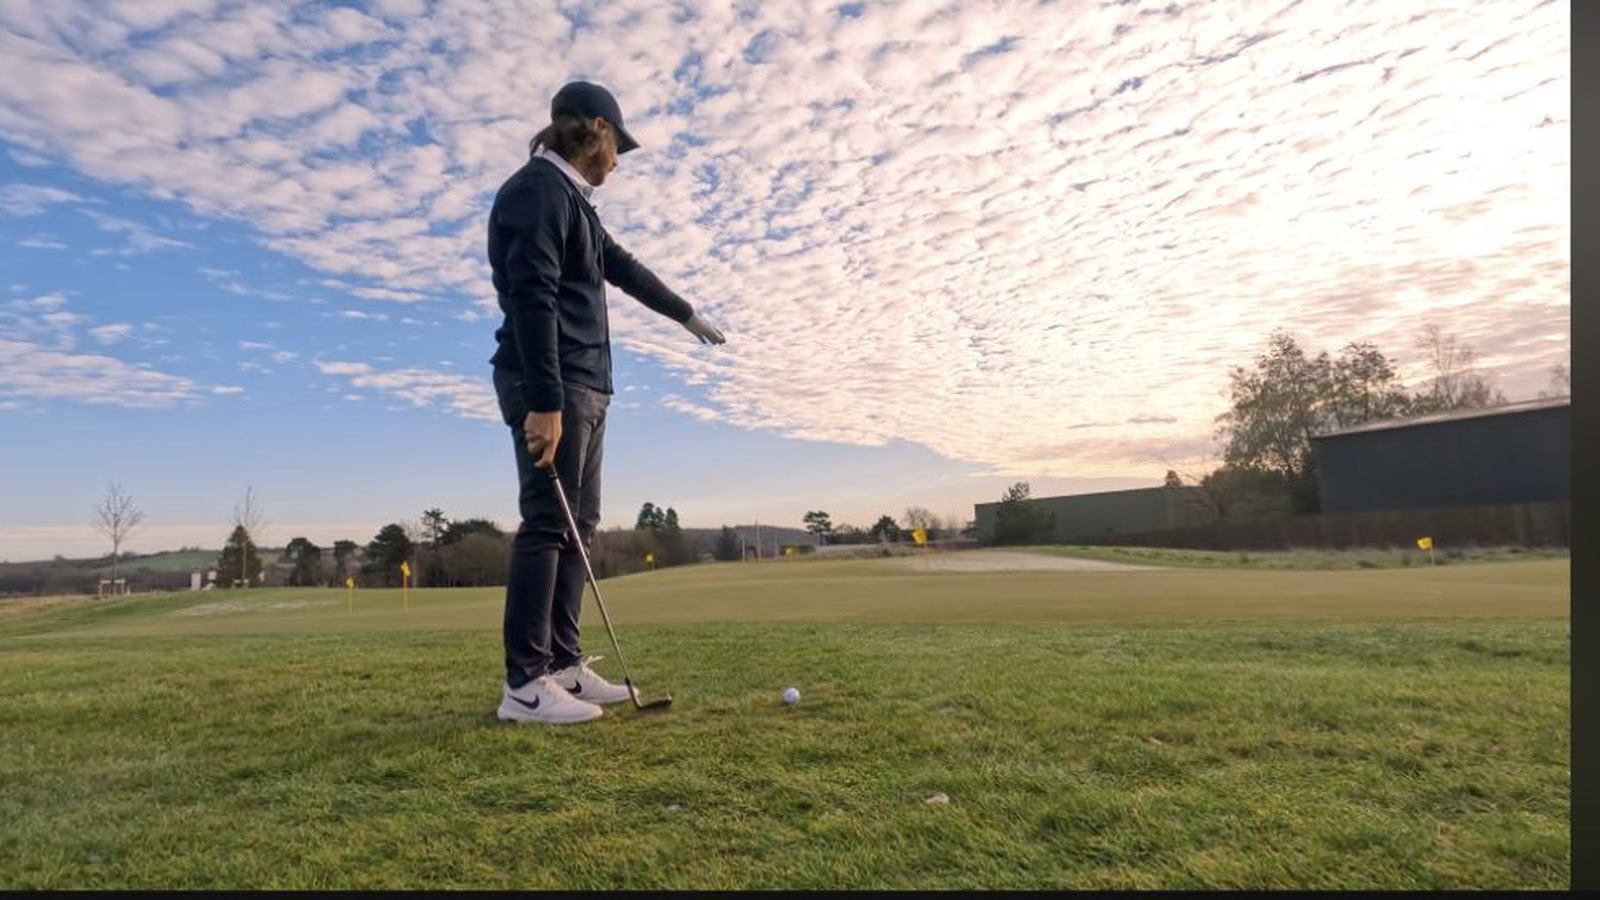
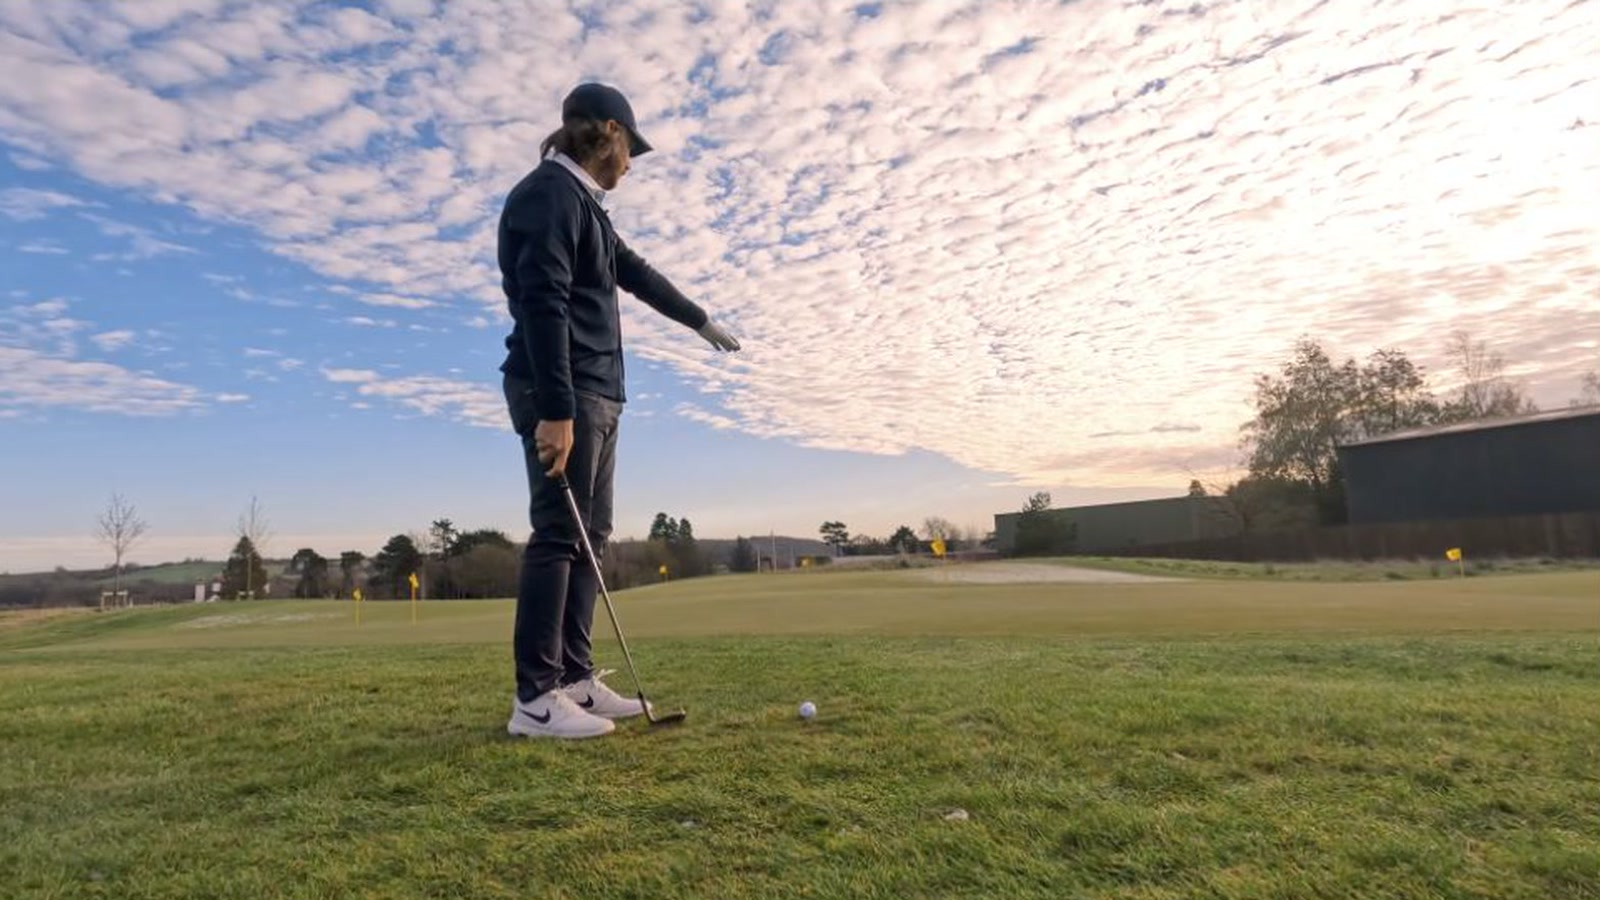
Crop black borders from Tommy Fleetwood captures

diff --git a/reading/2026-11-13-tommy-fleetwood-five-tour-pro-tips-en.html b/reading/2026-11-13-tommy-fleetwood-five-tour-pro-tips-en.html
@@ -49,7 +49,7 @@
           <div class="meta"><span>9:16 video</span><span>Rick Shiels Golf · Tommy Fleetwood</span><span>Published December 23, 2021</span><span>Summary run: November 13, 2026 · 09:30 ICT</span></div>
         </div>
         <figure class="hero-card">
-          <img src="images/2026-11-13-tommy-fleetwood-five-tour-tips/chip-shot-description.jpg?v=20261113-clean" alt="Tommy Fleetwood identifying where a chip should land before playing the shot" />
+          <img src="images/2026-11-13-tommy-fleetwood-five-tour-tips/chip-shot-description.jpg?v=20261113-crop" alt="Tommy Fleetwood identifying where a chip should land before playing the shot" />
           <figcaption>Fleetwood starts the chip by choosing its landing point and expected break. The swing becomes the last step in a plan he can describe before he moves the club.</figcaption>
         </figure>
       </header>
@@ -95,7 +95,7 @@
             <p>Fleetwood starts with the physical difference between driver and the rest of the bag. The ball is teed up, so the player can meet it while the clubhead is travelling upward. Many amateurs keep the same downward intention they use for an iron. In Fleetwood's explanation, that delivery adds spin and often produces a weak cut.</p>
             <p>His setup cue is simple. Move the ball forward, let the trail foot sit a little farther back, and keep the head behind the ball. He then places a second tee in the ground ahead of the ball. The task is to strike the ball and let the driver travel above the forward tee. A player who chops steeply downward is more likely to hit it.</p>
             <figure class="visual">
-              <img src="images/2026-11-13-tommy-fleetwood-five-tour-tips/driver-forward-tee-drill.jpg?v=20261113-clean" alt="Fleetwood demonstrating the driver setup with his head behind the teed ball" />
+              <img src="images/2026-11-13-tommy-fleetwood-five-tour-tips/driver-forward-tee-drill.jpg?v=20261113-crop" alt="Fleetwood demonstrating the driver setup with his head behind the teed ball" />
               <figcaption><a href="https://www.youtube.com/watch?v=conDZKAqpA4&t=95s">1:35</a> · Fleetwood sets his head behind the ball before showing the forward-tee constraint. The cue is visible and testable, which makes it easier to repeat than a long list of body positions.</figcaption>
             </figure>
             <p>The drill is useful because it changes the task rather than asking the player to manufacture a launch-monitor number. It still needs feedback. A very upward strike can create a new problem if contact moves low on the face or the path and face no longer match. Spray the face, watch the start line, and compare carry and curvature before keeping the change.</p>
@@ -107,7 +107,7 @@
             <p>The iron lesson reverses the driver intention. Fleetwood wants the club to reach the ball before the turf. The loft already supplies height. Trying to help the ball upward often leaves pressure on the trail foot and moves the bottom of the swing behind the ball, producing fat and thin contact.</p>
             <p>Fleetwood exaggerates the correction. He lifts the lead foot during the backswing, then stamps it down as the downswing begins. The motion shifts pressure toward the target and gives the body somewhere to rotate. He can then strike down through the ball and take the divot after impact.</p>
             <figure class="visual">
-              <img src="images/2026-11-13-tommy-fleetwood-five-tour-tips/iron-pressure-step.jpg?v=20261113-clean" alt="Fleetwood stepping pressure onto his lead foot during the iron drill" />
+              <img src="images/2026-11-13-tommy-fleetwood-five-tour-tips/iron-pressure-step.jpg?v=20261113-crop" alt="Fleetwood stepping pressure onto his lead foot during the iron drill" />
               <figcaption><a href="https://www.youtube.com/watch?v=conDZKAqpA4&t=220s">3:40</a> · The step is an exaggeration, not a pose to freeze at impact. It gives the player a clear sequence: load, plant, then move through the shot.</figcaption>
             </figure>
             <p>Contact tells you whether the exercise worked. Mark the ball position on a grass range or use a line on a mat. The strike should occur at the ball and the low point should appear beyond it. If the player simply lunges toward the target, the drill has lost its purpose. Pressure should move forward while the chest continues turning.</p>
@@ -119,7 +119,7 @@
             <p>Fleetwood's chipping advice begins away from the ball. He reads the slope, checks the lie, chooses a club, identifies a landing point, and predicts the release. In the filmed example he uses a 52-degree wedge, lands the ball just onto the green, and expects it to move from right to left.</p>
             <p>He describes the motion as a putt with loft. The phrase connects an unfamiliar little wedge shot to a familiar putting action. More importantly, it gives the shot one positive picture. The alternative is a pile of warnings about what must not happen, which leaves the player with no useful target.</p>
             <figure class="visual">
-              <img src="images/2026-11-13-tommy-fleetwood-five-tour-tips/chip-shot-description.jpg?v=20261113-clean" alt="Fleetwood pointing to the landing point for a low chip with a 52 degree wedge" />
+              <img src="images/2026-11-13-tommy-fleetwood-five-tour-tips/chip-shot-description.jpg?v=20261113-crop" alt="Fleetwood pointing to the landing point for a low chip with a 52 degree wedge" />
               <figcaption><a href="https://www.youtube.com/watch?v=conDZKAqpA4&t=275s">4:35</a> · The landing point links club choice to green speed and slope. A successful chip can then be reviewed as a plan, not only as a final distance from the hole.</figcaption>
             </figure>
             <ol class="sequence">
@@ -137,7 +137,7 @@
             <p>Tour players know more than a single stock distance. They can shorten a swing, reduce speed, or choose another flight. Fleetwood asks amateurs to start with something even more basic: measure what the club actually does across several shots.</p>
             <p>A player may call an 8-iron a 164-yard club because one perfect strike once travelled that far. The next group of shots might carry 142, 149, and 153. Those numbers are not failures to hide. They describe the club the player takes to the course. A front bunker or water carry should be planned against the reliable part of that range, not the best result in memory.</p>
             <figure class="visual">
-              <img src="images/2026-11-13-tommy-fleetwood-five-tour-tips/distance-range.jpg?v=20261113-clean" alt="Fleetwood explaining how several measured shots define a useful club distance range" />
+              <img src="images/2026-11-13-tommy-fleetwood-five-tour-tips/distance-range.jpg?v=20261113-crop" alt="Fleetwood explaining how several measured shots define a useful club distance range" />
               <figcaption><a href="https://www.youtube.com/watch?v=conDZKAqpA4&t=340s">5:40</a> · Record several carries with the same club and normal intent. The distribution is more useful than the longest shot.</figcaption>
             </figure>
             <p>Fleetwood also makes the scoring geometry concrete. A ball finishing 40 feet short and another finishing 40 feet long are 80 feet apart. Reaching pin-high more often narrows that error before direction is considered. This is why under-clubbing costs more than a single missed green suggests.</p>
@@ -149,7 +149,7 @@
             <p>The distance lesson becomes a risk lesson when water or a bunker guards the green. Fleetwood says tour players will take more club when the required carry sits at the edge of the expected number. They do not need to prove they can hit the shorter club perfectly.</p>
             <p>For an amateur, the same idea starts with honest carry data. Total distance is misleading when the ball must clear an obstacle. Build a small note for each club with typical carry, a softer carry, and the shortest result you still see often enough to matter. On the course, compare the hazard number with that range before looking at the flag.</p>
             <figure class="visual">
-              <img src="images/2026-11-13-tommy-fleetwood-five-tour-tips/club-up-risk.jpg?v=20261113-clean" alt="Fleetwood explaining why a player should take enough club to cover a forced carry" />
+              <img src="images/2026-11-13-tommy-fleetwood-five-tour-tips/club-up-risk.jpg?v=20261113-crop" alt="Fleetwood explaining why a player should take enough club to cover a forced carry" />
               <figcaption><a href="https://www.youtube.com/watch?v=conDZKAqpA4&t=430s">7:10</a> · Clubbing up is a probability choice. The objective is to remove the forced carry from the shot's fragile edge.</figcaption>
             </figure>
             <div class="callout"><p><strong>A practical range session.</strong> Hit eight normal shots with one club. Remove obvious mishits only if you would also treat them as unusual on the course. Record carry, strike location, and curve. Use the middle group as the stock range and the shorter recurring outcomes when planning a forced carry.</p></div>
@@ -161,7 +161,7 @@
             <p>Fleetwood reviews the round after he plays. He looks at what worked, what failed, and what should change before the next start. That analysis has a purpose: it should produce the next practice task. Replaying every mistake without choosing an action only extends the frustration.</p>
             <p>He finishes with a second exercise. Recall the three best shots of the day. The point is not forced optimism. Golf makes failures unusually memorable, and those memories can distort how the player evaluates the whole round. Three specific successes preserve evidence of what the swing and decisions could already produce.</p>
             <figure class="visual">
-              <img src="images/2026-11-13-tommy-fleetwood-five-tour-tips/post-round-review.jpg?v=20261113-clean" alt="Fleetwood and Rick Shiels discussing a balanced post-round review" />
+              <img src="images/2026-11-13-tommy-fleetwood-five-tour-tips/post-round-review.jpg?v=20261113-crop" alt="Fleetwood and Rick Shiels discussing a balanced post-round review" />
               <figcaption><a href="https://www.youtube.com/watch?v=conDZKAqpA4&t=510s">8:30</a> · Fleetwood's review has two outputs: one thing to improve and three good shots to remember.</figcaption>
             </figure>
             <p>A useful note can be four lines long: the shot that cost the most, the likely cause, the next drill, and the three best shots. This keeps practice connected to the course while preventing one bad hole from becoming the story of the entire day.</p>

diff --git a/reading/index.html b/reading/index.html
@@ -162,7 +162,7 @@
           "source": "Rick Shiels Golf · Tommy Fleetwood",
           "sourceCount": 1,
           "videoId": "conDZKAqpA4",
-          "imageUrl": "images/2026-11-13-tommy-fleetwood-five-tour-tips/chip-shot-description.jpg?v=20261113-clean",
+          "imageUrl": "images/2026-11-13-tommy-fleetwood-five-tour-tips/chip-shot-description.jpg?v=20261113-crop",
           "watchUrl": "https://www.youtube.com/watch?v=conDZKAqpA4",
           "pages": [
             {
